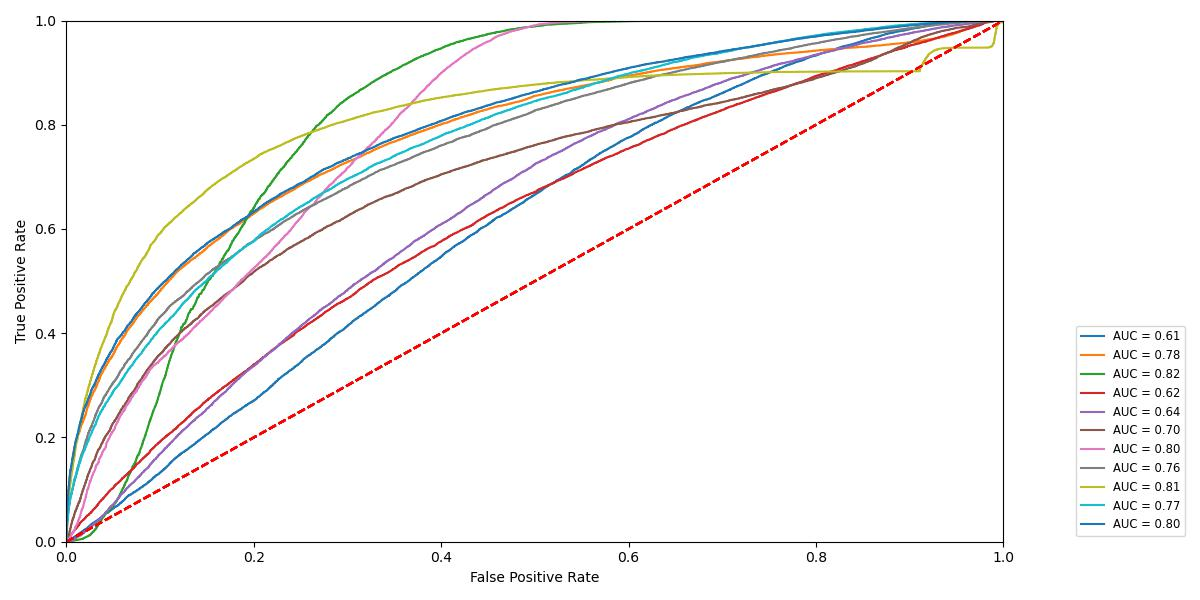
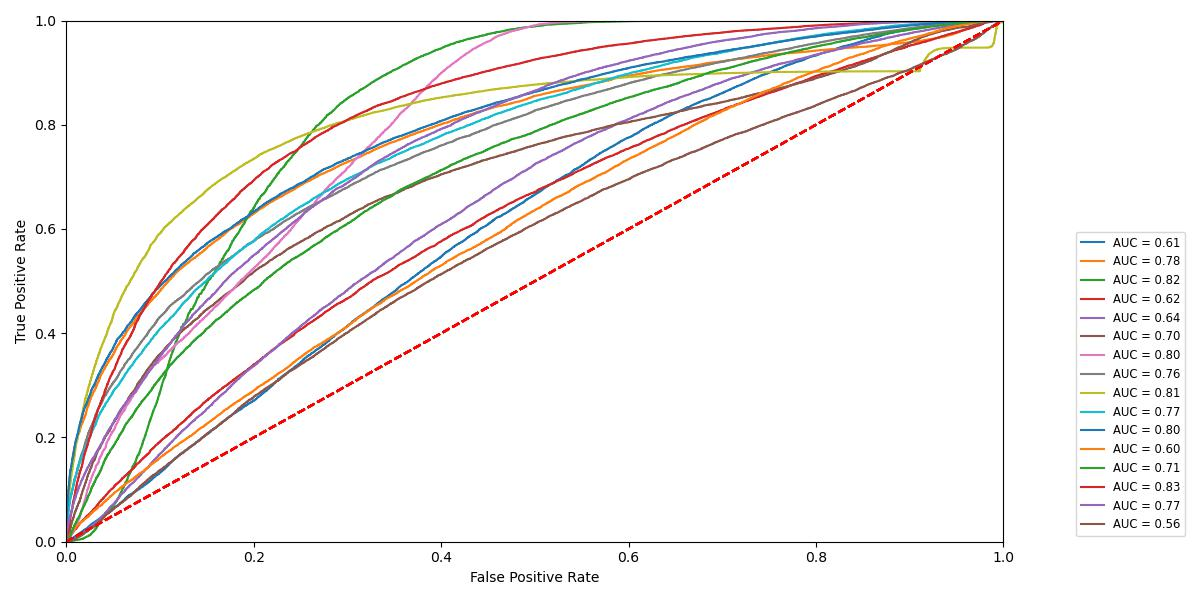
Update

diff --git a/run_svm.py b/run_svm.py
@@ -50,14 +50,14 @@ for test_user in os.listdir(data_path):
         class_0 = test_df[test_df['label'] == 0]
         class_1 = test_df[test_df['label'] == 1]
         class_count_0, class_count_1 = test_df['label'].value_counts()
-        class_0_over = class_0.sample(data_per_user * 2, replace=True)
+        class_0_over = class_0.sample(int(class_count_0 / 1.2), replace=True)
         class_1_over = class_1.sample(data_per_user * 2, replace=True)
 
         # test_df = pd.concat([class_0, class_1_over], axis=0)
         if test_user == "hyw" or test_user == "lzj":
-            test_df = pd.concat([class_0, class_1_over], axis=0)
+            test_df = pd.concat([class_0, class_1], axis=0)
         else:
-            test_df = pd.concat([class_0_over, class_1_over], axis=0)
+            test_df = pd.concat([class_0, class_1], axis=0)
 
         fea = ["emd_ani_sal", "labDelta", "area", "center_x", "center_y"]
         fea_MA = ["emd_ani_sal_MA", "labDelta_MA", "area_MA", "center_x_MA", "center_y_MA"]
@@ -130,5 +130,5 @@ for test_user in os.listdir(data_path):
     plt.xlabel('False Positive Rate')
     fig.tight_layout()
     # plt.show()
-    plt.savefig("./logireg_smooth_pred.jpg")
+    plt.savefig("./logireg_smooth_pred_7.jpg")
     # break
